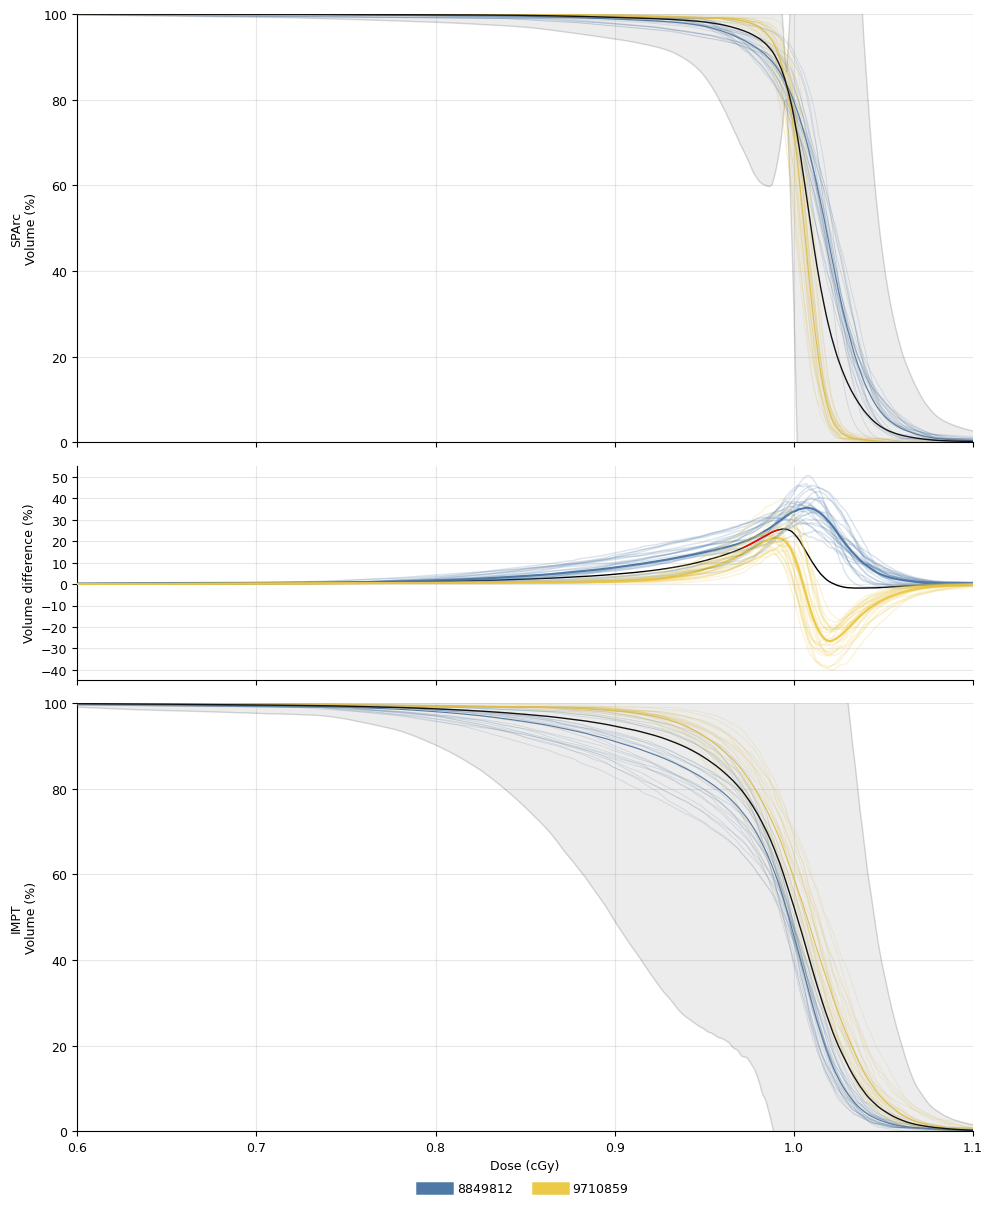
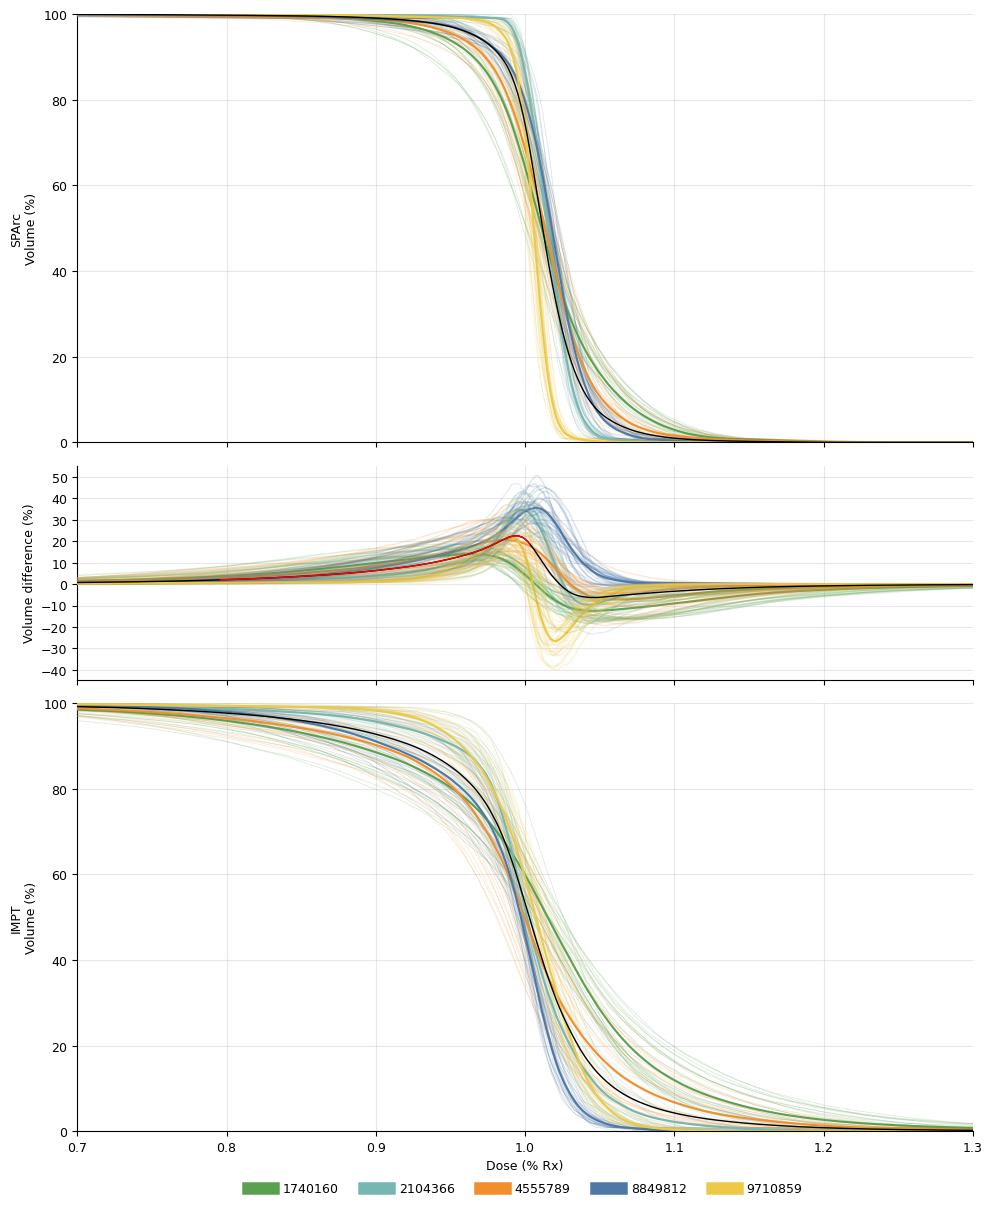
vault backup: 2024-03-06 13:59:31

diff --git a/Research/SPArtifact/Abstract.md b/Research/SPArtifact/Abstract.md
@@ -2,19 +2,19 @@
 Protons are exquisitely sensitive to large metal artifacts and, with current intensity modulated proton therapy (IMPT) techniques, can generate large-magnitude underand overdosing of targets. Herein we introduce a spot-scanning proton arc (SPArc) approach to facilitate proton therapy in close proximity to large metal artifacts and provide a dosimetric comparison to IMPT.
 
 ## Methods
-Single dose level, curative-intent plans were generated for 5 patients with large metal implants circumscribing or within the target volume. Both 4-field IMPT and single-arc SPArc plans were generated for each patient with robustness assessment performed at all combinations of range errors of 0 and 3.5 mm and translational errors of ±3 mm in x, y, and z. DVH relative to prescription dose  for all 52 resultant dose-distributions per patient were extracted and used to quantify target volume homogeneity via standard deviation (SD), interquartile range (IQR), Levene's variance test, and homogeneity index (HI) (D_2 - D_98) as per Wu 2003 (PMID: 12738335)[^wu2003]. Robustness was quantified via Levene and 95% confidence interval (CI) width. Dose-difference curves were constructed, allowing for direct dose comparison via paired t-test and integral dose comparisons.
+Single dose level, curative-intent plans were generated for 5 patients with large metal implants circumscribing or within the target volume. Both 4-field IMPT and single-arc SPArc plans were generated for each patient with robustness assessment performed at all combinations of range errors of 0 and 3.5 mm and translational errors of ±3 mm in x, y, and z. DVH relative to prescription dose  for all 52 resultant dose-distributions per patient were extracted and used to quantify target volume homogeneity via standard deviation (SD), interquartile range (IQR), range, Levene's variance test, and homogeneity index (HI) (D_2 - D_98) as per Wu 2003 (PMID: 12738335)[^wu2003]. Robustness was quantified via Levene and 95% confidence interval (CI) width. Dose-difference curves were constructed, allowing for direct dose comparison via paired t-test and integral dose comparisons. α=0.05 for all analyses. 
 
 ## Results
 ### Homogeneity
-SPArc generates more homogenous plans than IMPT as measured by SD (2.8 vs. 5.8%), IQR (2 vs. 4.5%), HI (mean: 9.1 vs. 19.66, p=0.0095), and by Levene (statistic: 21, p<0.00001).
+SPArc generates more homogenous plans than IMPT as measured by SD (3.5 vs. 7.7%), IQR (2.8 vs. 5.9%), range (34.4 vs. 68.6%), HI (mean: 11.71 vs. 29.61, p=0.0028), and by Levene (statistic: 66, p<$1\times10^{-14}$).
 
 ![[img_Abstract_fig1-1.png]]
 
 ### Robustness
-SPArc also showed greater robustness than IMPT as measured by perturbation-to-perturbation Levene (mean statistic: 0.85 vs. 1.70) and CI width (mean: 0.79 vs. 1.07).
+SPArc also showed greater robustness than IMPT as measured by perturbation-to-perturbation Levene (mean statistic: 1.1 vs. 1.6) and CI width (mean: ==0.79 vs. 1.07==).
 
 ### Dosimetric Advantage
-Examining the area under the mean dose-difference curve shows that, compared to IMPT, SPArc delivers an integral of 16.1% more dose below the prescription dose level and only 1.6% more dose over the prescription dose level—a ratio of 10.1 in favor of SPArc.
+Examining the area under the mean dose-difference curve shows that, compared to IMPT, SPArc delivers an 18.6% more integral dose below the prescription dose level and spares 3.6% more integral dose above the prescription dose level—an overall integral benefit of 22.2% in favor of SPArc. The difference plot reveals significantly greater volumes at dose levels from 79.6% to 100.3% with an 8.5% volume advantage over this range. 
 
 ![[img_Abstract_fig2-1.png]]
 
